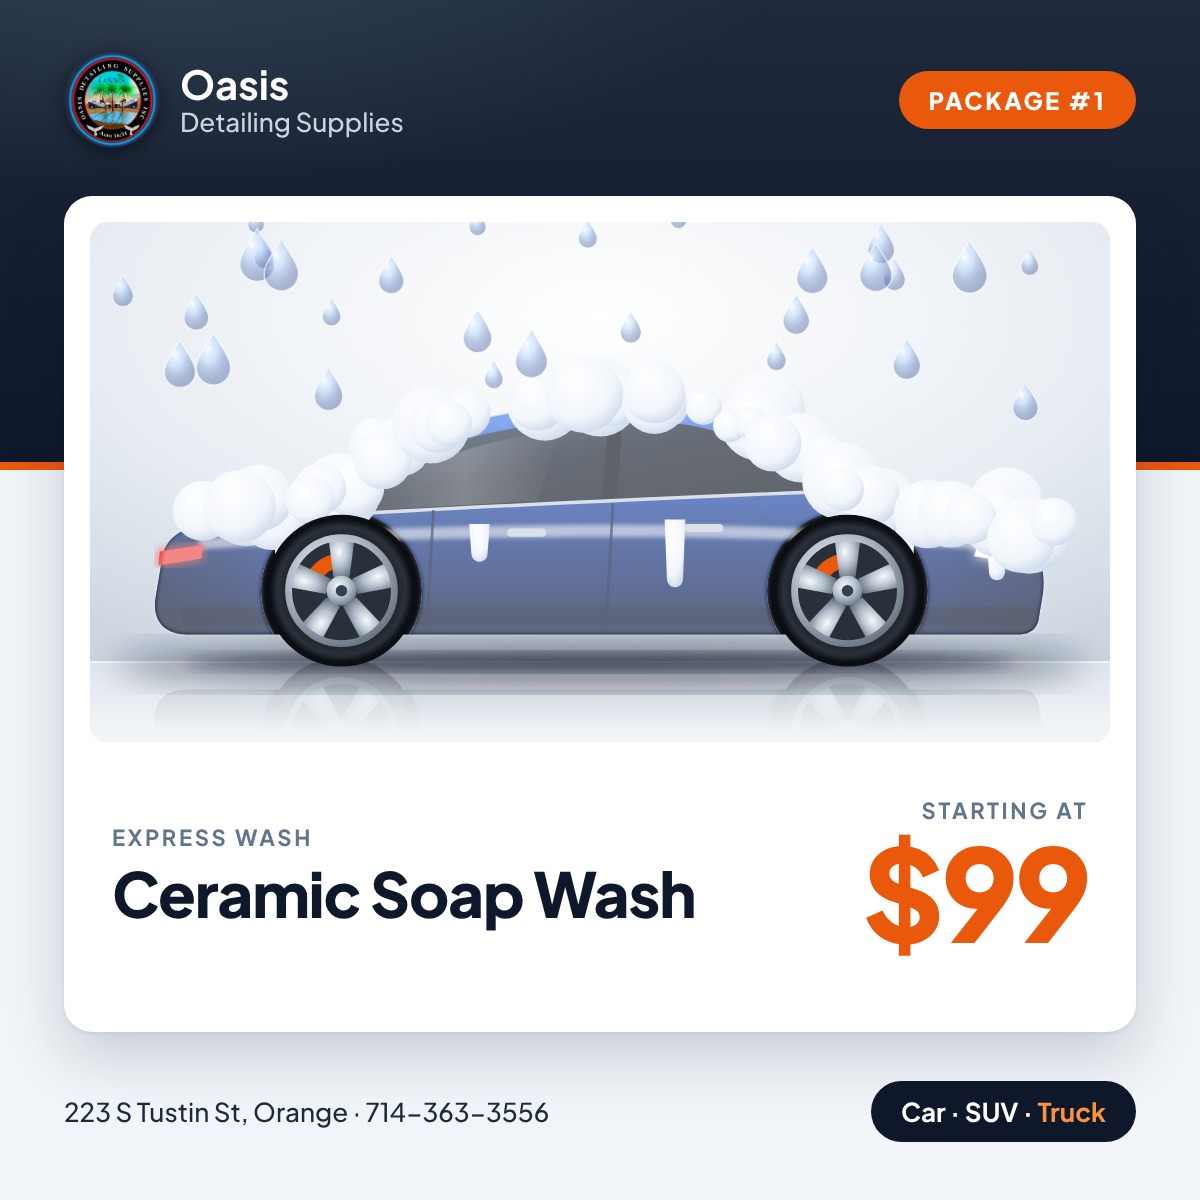
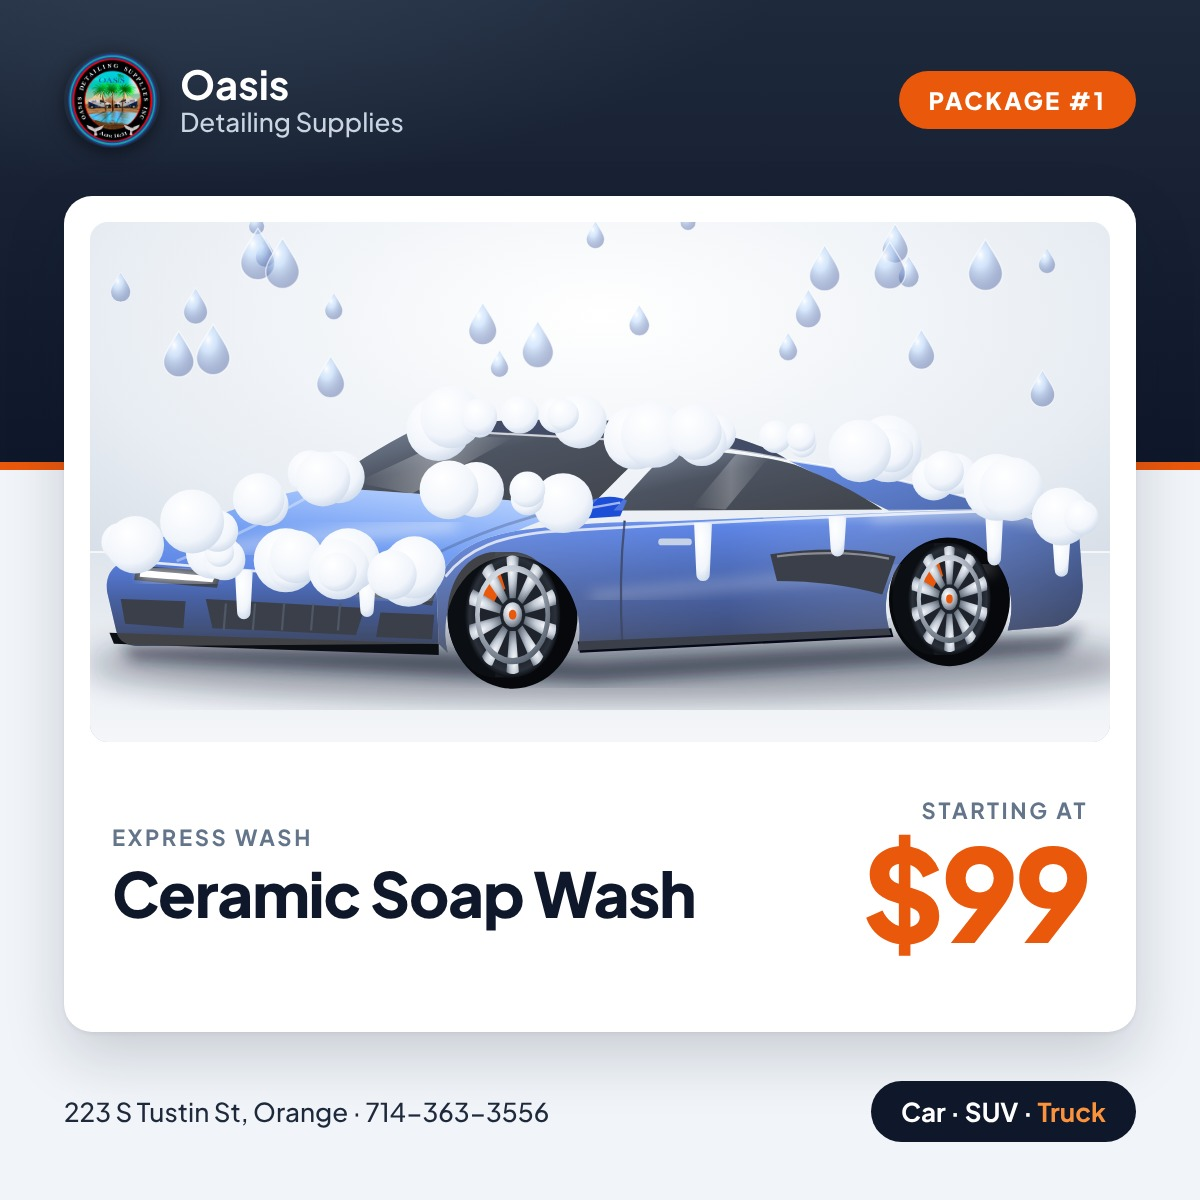
Switch product photo car to a front three-quarter sports car
New car34.js draws a low sports car from the front 3/4 angle; the
wash, exterior, full detail and coating scenes now use it.

Claude-Session: https://claude.ai/code/session_01DuvXdhD7zjZudMQ3KkXJYc

diff --git a/gmaps-product-photos/src/car34.js b/gmaps-product-photos/src/car34.js
@@ -1,0 +1,124 @@
+// Front three-quarter sports car (viewBox 0 0 1096 520). Front face on the left, near side receding right.
+
+// panels
+const SIDE = `M402 360 C410 335 432 318 474 311 C520 305 560 303 600 303 L880 292 C930 290 966 300 976 318
+  L979 360 C979 380 971 392 956 396 L912 400 A56 62 0 1 0 808 404 L528 418 A60 68 0 1 0 412 420 L404 412 Z`;
+const FASCIA = `M402 360 C300 352 200 344 128 338 C112 340 106 352 108 366 L116 400 C118 410 126 414 138 414 L404 412 Z`;
+const HOOD = `M128 338 C200 344 300 352 402 360 C410 335 432 318 474 311 C500 300 520 293 540 289 L300 272
+  C250 278 200 300 160 316 C140 324 130 330 128 338 Z`;
+const DECK = `M716 248 C800 260 906 284 976 318 C966 300 930 290 880 292 L806 293 Z`;
+const WINDSHIELD = `M300 272 L540 289 C566 262 586 242 600 232 L384 220 C352 236 324 254 300 272 Z`;
+const ROOF = `M384 220 L600 232 C650 236 690 242 716 248 C696 234 650 220 600 215 C520 210 440 211 384 220 Z`;
+const SIDE_GLASS = `M560 293 C582 268 600 248 612 238 C660 240 696 245 722 252 C752 264 782 279 800 292 Z`;
+
+const BODY_ALL = [SIDE, FASCIA, HOOD, DECK, ROOF, WINDSHIELD, SIDE_GLASS];
+const bodyClip = (id) => `<clipPath id="${id}">${BODY_ALL.map(d => `<path d="${d}"/>`).join('')}</clipPath>`;
+
+const defs = `
+  <linearGradient id="sideP" x1="0" y1="0" x2="0" y2="1">
+    <stop offset="0" stop-color="#6c9cf6"/><stop offset=".12" stop-color="#2f62de"/><stop offset=".5" stop-color="#173b98"/>
+    <stop offset=".85" stop-color="#0b1f5a"/><stop offset="1" stop-color="#071330"/>
+  </linearGradient>
+  <linearGradient id="sideFade" x1="0" y1="0" x2="1" y2="0">
+    <stop offset="0" stop-color="#fff" stop-opacity=".12"/><stop offset=".45" stop-color="#fff" stop-opacity="0"/>
+    <stop offset="1" stop-color="#000" stop-opacity=".35"/>
+  </linearGradient>
+  <linearGradient id="hoodP" x1="0" y1="1" x2=".6" y2="0">
+    <stop offset="0" stop-color="#2557d4"/><stop offset=".55" stop-color="#4f86f0"/><stop offset="1" stop-color="#9cc0ff"/>
+  </linearGradient>
+  <linearGradient id="fasciaP" x1="0" y1="0" x2="0" y2="1">
+    <stop offset="0" stop-color="#2a5bd7"/><stop offset=".45" stop-color="#143488"/><stop offset="1" stop-color="#081538"/>
+  </linearGradient>
+  <linearGradient id="deckP" x1="0" y1="0" x2="1" y2="1">
+    <stop offset="0" stop-color="#3d6fe2"/><stop offset="1" stop-color="#0f2a72"/>
+  </linearGradient>
+  <linearGradient id="glass34" x1="0" y1="0" x2="1" y2="1">
+    <stop offset="0" stop-color="#5a6b86"/><stop offset=".4" stop-color="#1b2435"/><stop offset="1" stop-color="#0a0f18"/>
+  </linearGradient>
+  <linearGradient id="glassStreak" x1="0" y1="0" x2="1" y2="0">
+    <stop offset="0" stop-color="#fff" stop-opacity="0"/><stop offset=".5" stop-color="#fff" stop-opacity=".35"/><stop offset="1" stop-color="#fff" stop-opacity="0"/>
+  </linearGradient>
+  <radialGradient id="rim34" cx="38%" cy="32%" r="80%">
+    <stop offset="0" stop-color="#ffffff"/><stop offset=".45" stop-color="#c3cbd6"/><stop offset="1" stop-color="#4b5563"/>
+  </radialGradient>`;
+
+// wheel seen at an angle: tread cylinder + compressed face
+const wheel = (cx, cy, r, squeeze = .78, id = '') => {
+  const rx = r * squeeze;
+  return `
+  <g>
+    <ellipse cx="${cx - r * .28}" cy="${cy}" rx="${rx}" ry="${r}" fill="#0b0e13"/>
+    <rect x="${cx - r * .28}" y="${cy - r}" width="${r * .28}" height="${r * 2}" fill="#14181f"/>
+    <g transform="translate(${cx} ${cy}) scale(${squeeze} 1)">
+      <circle r="${r}" fill="url(#tire)"/>
+      <circle r="${r * .74}" fill="#1f242c"/>
+      <path transform="scale(${r / 46})" d="M-31 -10 A33 33 0 0 1 -12 -31 L-7 -19 A20 20 0 0 0 -19 -6 Z" fill="#ea580c"/>
+      ${Array.from({ length: 10 }, (_, i) => `<path transform="rotate(${i * 36}) scale(${r / 46})" d="M-3 -12 L-6 -42 C-2 -44 2 -44 6 -42 L3 -12 Z" fill="url(#rim34)"/>`).join('')}
+      <circle r="${r * .74}" fill="none" stroke="url(#rim34)" stroke-width="${r * .1}"/>
+      <circle r="${r * .2}" fill="url(#rim34)"/><circle r="${r * .08}" fill="#ea580c"/>
+    </g>
+  </g>`;
+};
+
+function car({ seats = false, extra = '' } = {}) {
+  return `
+  <defs>${defs}${bodyClip('car34clip')}</defs>
+  <ellipse cx="560" cy="430" rx="470" ry="34" fill="#0f172a" opacity=".38" filter="url(#blur14)"/>
+  <path d="M120 414 L404 420 L540 428 L960 404 L980 396 L960 420 L540 446 L404 440 L130 426 Z" fill="#0f172a" opacity=".55" filter="url(#blur6)"/>
+
+
+  <!-- wheel wells -->
+  <ellipse cx="860" cy="372" rx="54" ry="60" fill="#06080c"/>
+  <ellipse cx="470" cy="386" rx="58" ry="66" fill="#06080c"/>
+
+  <path d="${SIDE}" fill="url(#sideP)"/>
+  <path d="${SIDE}" fill="url(#sideFade)"/>
+  <path d="${DECK}" fill="url(#deckP)"/>
+  <path d="${HOOD}" fill="url(#hoodP)"/>
+  <path d="${FASCIA}" fill="url(#fasciaP)"/>
+  <path d="${ROOF}" fill="#0d1a3d"/>
+  <path d="${WINDSHIELD}" fill="url(#glass34)"/>
+  <path d="${SIDE_GLASS}" fill="url(#glass34)"/>
+  ${seats ? `<g clip-path="url(#seatClip)"><clipPath id="seatClip"><path d="${WINDSHIELD}"/><path d="${SIDE_GLASS}"/></clipPath>
+    <path d="M420 290 C416 262 428 246 446 246 C462 246 470 260 466 280 L462 292 Z" fill="#c58448"/>
+    <path d="M494 294 C490 266 502 250 520 250 C536 250 544 264 540 284 L536 296 Z" fill="#b8763d"/>
+    <path d="M650 292 C646 268 658 254 676 254 C692 254 700 266 696 284 L694 294 Z" fill="#c58448"/></g>` : ''}
+  <path d="M330 268 L420 226 L470 228 L380 278 Z" fill="url(#glassStreak)"/>
+  <path d="M630 290 L670 242 L700 244 L660 292 Z" fill="url(#glassStreak)" opacity=".7"/>
+
+  <!-- hood creases + highlight -->
+  <path d="M170 338 C220 318 260 296 300 274" stroke="#fff" stroke-opacity=".35" stroke-width="2.5" fill="none"/>
+  <path d="M360 354 C400 330 450 306 520 290" stroke="#0b1f5a" stroke-opacity=".35" stroke-width="2.5" fill="none"/>
+  <path d="M200 330 C260 320 330 312 420 306" stroke="#fff" stroke-opacity=".45" stroke-width="10" fill="none" filter="url(#blur6)"/>
+  <!-- shoulder line + side sculpting -->
+  <path d="M410 352 C430 326 460 316 500 312 C600 306 760 298 880 294 C930 292 962 302 974 318" stroke="#fff" stroke-opacity=".75" stroke-width="2.5" fill="none"/>
+  <path d="M540 370 C640 360 760 350 900 344" stroke="#fff" stroke-opacity=".3" stroke-width="8" fill="none" filter="url(#blur6)"/>
+  <path d="M700 332 C740 326 780 326 812 334 L800 368 C770 360 740 356 706 356 Z" fill="#050a18"/>
+  <path d="M706 334 C740 330 776 330 806 336" stroke="#fff" stroke-opacity=".4" stroke-width="2" fill="none"/>
+  <path d="M570 302 C566 340 566 380 568 414" stroke="#061033" stroke-width="2" opacity=".8" fill="none"/>
+  <rect x="600" y="318" width="30" height="6" rx="3" fill="#c7d2e0" opacity=".9"/>
+  <path d="M528 292 C540 280 560 278 572 284 L566 298 L536 300 Z" fill="#1d4ed8"/><path d="M532 292 L566 286" stroke="#fff" stroke-opacity=".6" stroke-width="2"/>
+  <!-- rocker -->
+  <path d="M528 410 L808 398 L810 406 L530 420 Z" fill="#050a18"/>
+
+  <!-- front face: lights, intakes, splitter -->
+  <path d="M322 350 C352 352 382 356 402 362 L398 378 C372 374 346 370 318 366 Z" fill="#0b1220"/>
+  <path d="M330 356 C356 358 380 361 396 366 L394 372 C372 369 350 366 328 363 Z" fill="#fff" filter="url(#glow)"/>
+  <path d="M134 342 C160 344 186 346 210 348 L206 362 C182 360 158 358 132 355 Z" fill="#0b1220"/>
+  <path d="M138 346 C160 348 184 350 204 352 L202 357 C180 355 160 354 137 352 Z" fill="#fff" filter="url(#glow)"/>
+  <path d="M196 372 L338 380 L330 404 L202 398 Z" fill="#050a18"/>
+  <g stroke="#1e293b" stroke-width="2">${[214, 240, 266, 292, 316].map(x => `<path d="M${x} 376 L${x - 2} 400"/>`).join('')}</g>
+  <path d="M120 372 L178 374 L176 398 L124 394 Z" fill="#050a18"/>
+  <path d="M352 384 L400 386 L398 408 L348 406 Z" fill="#050a18"/>
+  <path d="M110 402 L404 412 L404 422 L114 412 Z" fill="#0b0e13"/>
+  <path d="M128 338 C200 344 300 352 402 360" stroke="#fff" stroke-opacity=".8" stroke-width="2.5" fill="none"/>
+  <!-- roofline glint -->
+  <path d="M384 220 L600 232 C650 236 690 242 716 248 C800 260 906 284 976 318" stroke="#fff" stroke-opacity=".7" stroke-width="2" fill="none"/>
+  <path d="M790 300 C860 290 930 292 968 312" stroke="#fff" stroke-opacity=".5" stroke-width="7" fill="none" filter="url(#blur6)"/>
+
+  ${wheel(860, 372, 50, .74)}
+  ${wheel(470, 386, 56, .76)}
+  ${extra}`;
+}
+
+module.exports = { car, SIDE, HOOD, DECK, FASCIA, ROOF, WINDSHIELD, SIDE_GLASS, bodyClip };

diff --git a/gmaps-product-photos/src/art.js b/gmaps-product-photos/src/art.js
@@ -1,5 +1,6 @@
 // Studio-style vector illustrations for each package (viewBox 0 0 1096 520, matches the photo slot).
 
+const C = require('./car34');
 const W = 1096, H = 520, GROUND = 420;
 
 const defs = `
@@ -116,8 +117,8 @@ const sparkle = (x, y, s = 1, c = '#fff') =>
   `<path transform="translate(${x} ${y}) scale(${s})" d="M0 -26 C3 -6 6 -3 26 0 C6 3 3 6 0 26 C-3 6 -6 3 -26 0 C-6 -3 -3 -6 0 -26 Z" fill="${c}" filter="url(#glow)"/>`;
 
 const svg = (inner) => `<svg viewBox="0 0 ${W} ${H}" preserveAspectRatio="xMidYMid slice" xmlns="http://www.w3.org/2000/svg">${defs}${backdrop()}${inner}</svg>`;
-// car scenes: scale 1.15 so the car fills the frame, ground lands at y=440
-const carSvg = (inner) => `<svg viewBox="0 0 ${W} ${H}" preserveAspectRatio="xMidYMid slice" xmlns="http://www.w3.org/2000/svg">${defs}${backdrop(440)}<g transform="translate(-90 -43) scale(1.15)">${inner}</g></svg>`;
+// car scenes: lower horizon so the 3/4 car sits on the studio floor
+const carSvg = (inner) => `<svg viewBox="0 0 ${W} ${H}" preserveAspectRatio="xMidYMid slice" xmlns="http://www.w3.org/2000/svg">${defs}${backdrop(330)}<g transform="translate(548 330) scale(1.12) translate(-548 -330)">${inner}</g></svg>`;
 
 // deterministic pseudo-random so renders are stable
 const rand = (seed) => () => (seed = (seed * 16807) % 2147483647) / 2147483647;
@@ -217,17 +218,40 @@ const correctionScene = () => `
   </g>
   ${sparkle(900, 220, 1.4)}${sparkle(1000, 330, .9)}${sparkle(760, 420, .7, '#fdba74')}`;
 
+function foam34() {
+  const r = rand(7), out = [];
+  const pts = [[140,334],[200,340],[260,344],[320,350],[380,354],[190,312],[250,290],[300,272],[420,280],[500,288],
+    [400,222],[460,218],[520,220],[580,228],[650,234],[720,240],[790,250],[850,268],[910,286],[960,306]];
+  for (const [x, y] of pts) for (let i = 0; i < 3; i++)
+    out.push(`<circle cx="${(x + (r() - .5) * 40).toFixed(1)}" cy="${(y - r() * 14).toFixed(1)}" r="${(12 + r() * 18).toFixed(1)}" fill="url(#foam)"/>`);
+  const drips = [[230,346,38],[340,352,30],[640,304,46],[760,298,30],[900,296,40],[960,318,28]]
+    .map(([x, y, h]) => `<path d="M${x - 8} ${y} L${x + 8} ${y} L${x + 6} ${y + h} A6 6 0 0 1 ${x - 6} ${y + h} Z" fill="url(#foam)"/>`);
+  return `<g clip-path="url(#car34clip)"><rect width="${W}" height="${H}" fill="#fff" opacity=".22"/></g>${drips.join('')}${out.join('')}`;
+}
+
+function beads34(seed) {
+  const r = rand(seed), out = [];
+  const zones = [[160, 520, 296, 352], [480, 960, 312, 400], [820, 960, 262, 300]];
+  for (const [x0, x1, y0, y1] of zones) for (let i = 0; i < 34; i++) {
+    const x = x0 + r() * (x1 - x0), y = y0 + r() * (y1 - y0), rr = 2.5 + r() * 5;
+    out.push(`<circle cx="${x.toFixed(1)}" cy="${y.toFixed(1)}" r="${rr.toFixed(1)}" fill="url(#bead)"/><circle cx="${(x - rr * .35).toFixed(1)}" cy="${(y - rr * .35).toFixed(1)}" r="${(rr * .3).toFixed(1)}" fill="#fff"/>`);
+  }
+  return `<g clip-path="url(#car34clip)">${out.join('')}</g>`;
+}
+
+const sweep34 = (x) => `<g clip-path="url(#car34clip)"><path d="M${x} 200 L${x + 110} 200 L${x - 40} 440 L${x - 150} 440 Z" fill="url(#sweep)"/></g>`;
+
 module.exports = {
-  wash: () => carSvg(car({ extra: foamLayer() }) + droplets(28, 3, [140, 30, 960, 200])),
+  wash: () => carSvg(C.car({ extra: foam34() }) + droplets(26, 3, [120, 30, 980, 190])),
   interior: () => svg(seatScene()),
-  exterior: () => carSvg(car({ extra: `<g clip-path="url(#bc3)"><path d="M520 180 L620 180 L520 400 L420 400 Z" fill="url(#sweep)"/></g><clipPath id="bc3"><path d="${BODY}"/></clipPath>` })
-    + sparkle(560, 236, 1.4) + sparkle(880, 318, 1.1) + sparkle(260, 300, .9) + sparkle(700, 120, .7, '#fb923c') + sparkle(380, 150, .8)),
-  full: () => carSvg(`<ellipse cx="555" cy="${GROUND + 6}" rx="410" ry="28" fill="none" stroke="#ea580c" stroke-width="4" opacity=".55"/>
-    <ellipse cx="555" cy="${GROUND + 6}" rx="390" ry="22" fill="#ffffff" opacity=".6"/>`
-    + car({ seats: true, extra: `<g clip-path="url(#bc4)"><path d="M600 180 L700 180 L600 400 L500 400 Z" fill="url(#sweep)"/></g><clipPath id="bc4"><path d="${BODY}"/></clipPath>` })
-    + sparkle(450, 220, 1.2) + sparkle(900, 300, 1) + sparkle(220, 290, .8) + sparkle(640, 110, .9, '#fb923c') + sparkle(820, 160, .6)),
+  exterior: () => carSvg(C.car({ extra: sweep34(560) })
+    + sparkle(402, 360, 1.3) + sparkle(600, 300, 1.1) + sparkle(250, 300, .9) + sparkle(820, 150, .8, '#fb923c') + sparkle(300, 150, .7)),
+  full: () => carSvg(`<ellipse cx="550" cy="420" rx="410" ry="42" fill="#ffffff" opacity=".65"/>
+    <ellipse cx="550" cy="420" rx="426" ry="48" fill="none" stroke="#ea580c" stroke-width="4" opacity=".55"/>`
+    + C.car({ seats: true, extra: sweep34(700) })
+    + sparkle(402, 360, 1.2) + sparkle(880, 290, 1) + sparkle(200, 250, .8) + sparkle(640, 150, .9, '#fb923c') + sparkle(960, 200, .6)),
   correction: () => svg(correctionScene()),
-  coating: () => carSvg(car({ extra: `<path d="${BODY}" fill="url(#sheen)"/>` + beads(11) })
-    + droplets(10, 21, [180, 60, 940, 170])
-    + sparkle(500, 214, 1.1) + sparkle(900, 314, .9) + sparkle(250, 120, .7, '#fb923c')),
+  coating: () => carSvg(C.car({ extra: `<g clip-path="url(#car34clip)"><rect width="${W}" height="${H}" fill="url(#sheen)"/></g>` + beads34(11) })
+    + droplets(10, 21, [140, 40, 960, 170])
+    + sparkle(400, 358, 1.1) + sparkle(880, 300, .9) + sparkle(220, 140, .7, '#fb923c')),
 };
